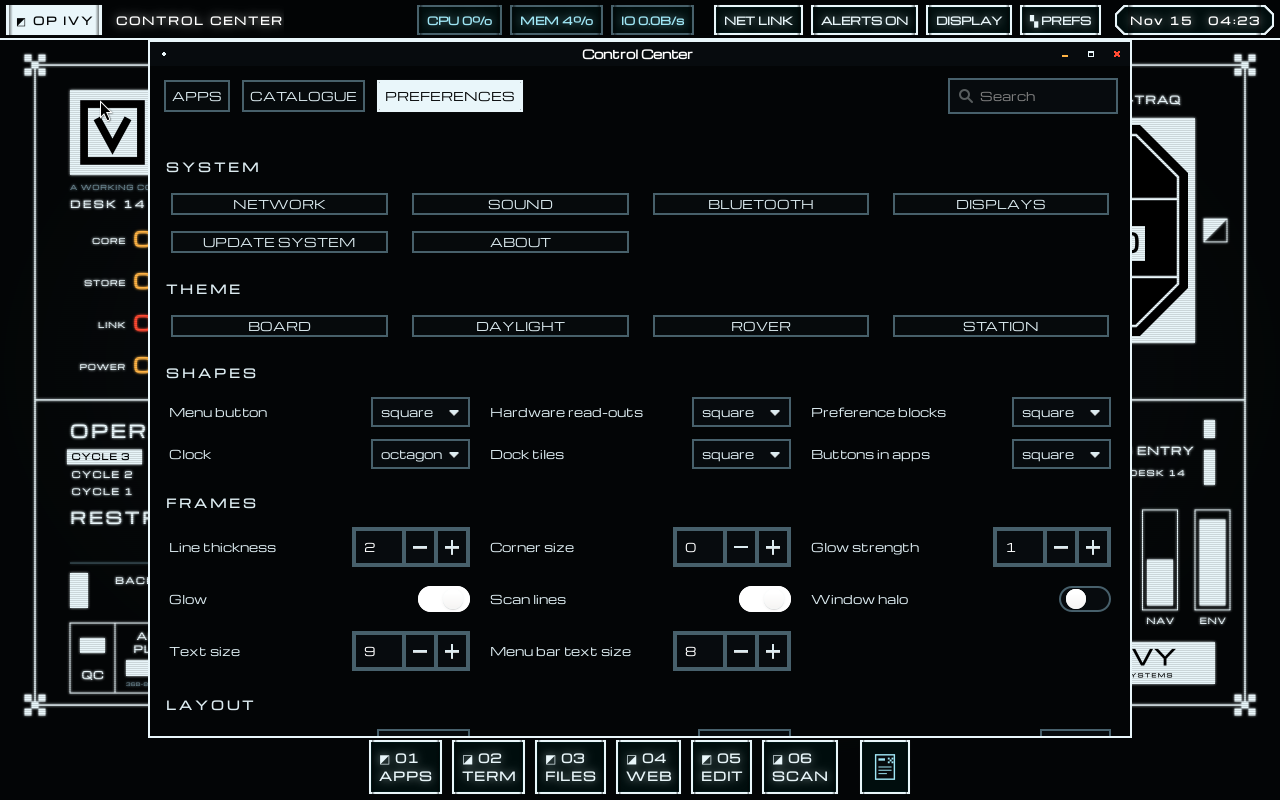
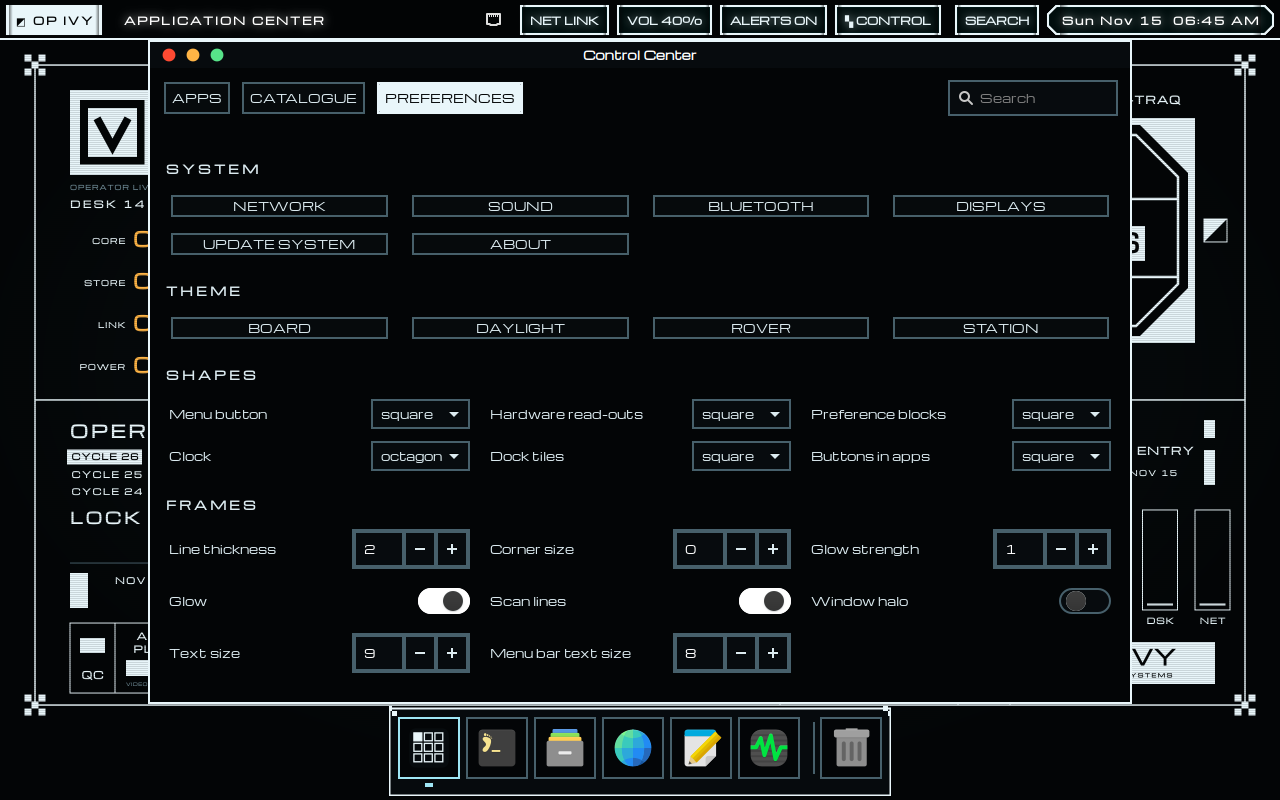
Op Ivy: screenshots from the real system in a VM
Desktop, a window with traffic-light buttons, the app menu, the system
menu, Application Center and Control Center, all captured from the
rebuilt ISO running in QEMU; the theme strip redrawn with the current
design.

Claude-Session: https://claude.ai/code/session_0143c5w2wKh7naW1WyjR1H7t

diff --git a/opivy/README.md b/opivy/README.md
@@ -10,13 +10,17 @@ The build, the tools, the settings and the shortcuts are identical; only the
 themes, shapes, typeface, wallpaper, icons and boot text differ. The name is
 set in one place, `config/version`.
 
-![Desktop](docs/desktop.png)
+![Desktop: the live station console, Mac-style menu bar and dock](docs/desktop.png)
+
+![A window with red, yellow and green buttons; the menu bar names the app](docs/windows.png)
+
+![The app menu, opened from the app's name in the menu bar](docs/appmenu.png)
+
+![The system menu, like the Apple menu](docs/sysmenu.png)
 
 ![Application Center](docs/apps.png)
 
 ![Control Center](docs/prefs.png)
-
-![Files](docs/files.png)
 
 The other three themes, `rover`, `board` and `daylight`:
 
